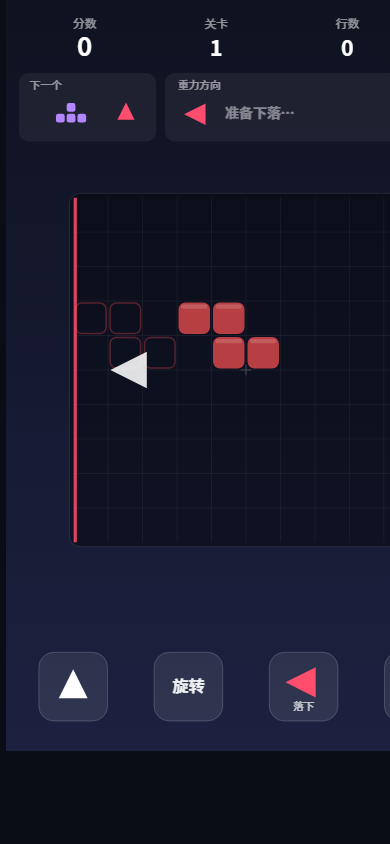
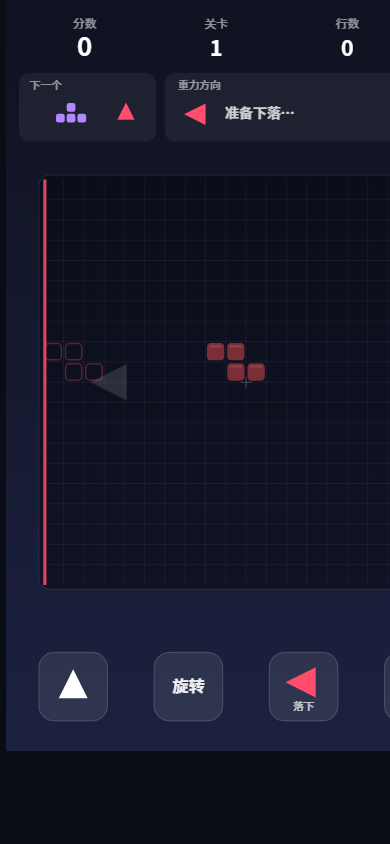
feat: 棋盘改为 20x20 — 单格减半、下落节奏/滑动手势/单测/演示脚本同步适配

Changed region(s): [[0.0923, 0.2156, 0.4, 0.7085], [0.4308, 0.3389, 0.7385, 0.4621], [0.5846, 0.1232, 0.7385, 0.154]]

diff --git a/web-preview/demo.js b/web-preview/demo.js
@@ -7,9 +7,9 @@
  *   300  开局            → 截图 1-menu(250) / 2-hint(950)
  *   1500 第 1 块硬降；1550 将第 2 块重力设为向下
  *   4200 第 2 块下落中    → 截图 3-fall(4200)
- *   4900 布置消行（第 9 行留 8、9 列 + O 块）
+ *   4900 布置消行（底行留最后两列 + O 块）
  *   5000 硬降 → 消行      → 截图 4-clear(5150)
- *   5500 布置升级（lines=7 + 第 8 行留 8、9 列 + O 块）
+ *   5500 布置升级（lines=7 + 次底行留最后两列 + O 块）
  *   5600 硬降 → 升 2 关   → 截图 5-levelup(5750)
  *   6200 中心 4×4 堵死 → spawn 碰撞 → 游戏结束 → 截图 6-gameover(6500)
  *   6800 打开排行榜       → 截图 7-rank(7100)
@@ -41,11 +41,12 @@
   /* 消行演示 */
   at(4900, function () {
     var core = G.core, g = core.board.grid, r, c;
-    for (r = 0; r < 10; r++) { g[r][8] = null; g[r][9] = null; } // 清空 O 下落通道
+    var R = g.length, C = g[0].length;
+    for (r = 0; r < R; r++) { g[r][C - 2] = null; g[r][C - 1] = null; } // 清空 O 下落通道
     var pre = [];
-    for (c = 0; c < 8; c++) if (!g[9][c]) pre.push({ x: c, y: 9 });
+    for (c = 0; c < C - 2; c++) if (!g[R - 1][c]) pre.push({ x: c, y: R - 1 });
     if (pre.length) core.board.lock(pre, 'J');
-    core.current = { type: 'O', matrix: cloneO(), dir: 0, x: 8, y: 6 };
+    core.current = { type: 'O', matrix: cloneO(), dir: 0, x: C - 2, y: R - 6 };
     core.phase = 'fall'; core.fallTimer = 0;
   });
   at(5000, function () { G.core.hardDrop(); });
@@ -53,11 +54,12 @@
   /* 升级演示：先补到 7 行，再消 1 行触发升级 */
   at(5500, function () {
     var core = G.core, g = core.board.grid, c;
+    var R = g.length, C = g[0].length;
     core.lines = 7;
     var pre = [];
-    for (c = 0; c < 8; c++) if (!g[8][c]) pre.push({ x: c, y: 8 });
+    for (c = 0; c < C - 2; c++) if (!g[R - 2][c]) pre.push({ x: c, y: R - 2 });
     if (pre.length) core.board.lock(pre, 'J');
-    core.current = { type: 'O', matrix: cloneO(), dir: 0, x: 8, y: 5 };
+    core.current = { type: 'O', matrix: cloneO(), dir: 0, x: C - 2, y: R - 6 };
     core.phase = 'fall'; core.fallTimer = 0;
   });
   at(5600, function () { G.core.hardDrop(); });
@@ -65,7 +67,9 @@
   /* 游戏结束演示：堵死中心出生区 */
   at(6200, function () {
     var core = G.core, cells = [];
-    for (var y = 3; y <= 6; y++) for (var x = 3; x <= 6; x++) cells.push({ x: x, y: y });
+    var R = core.board.grid.length;
+    var c0 = Math.floor(R / 2) - 2; // 中心 4×4，覆盖所有出生位
+    for (var y = c0; y < c0 + 4; y++) for (var x = c0; x < c0 + 4; x++) cells.push({ x: x, y: y });
     core.board.lock(cells, 'T');
     core.current = null;
     core.spawn(); // 中心碰撞 → gameover 事件 → 主循环切换到结算面板

diff --git a/js/config.js b/js/config.js
@@ -1,6 +1,6 @@
 /**
  * 全局配置常量
- * 引力方块：10x10 方形棋盘，方块从中心生成，重力方向随机（下/左/上/右）
+ * 引力方块：20x20 方形棋盘，方块从中心生成，重力方向随机（下/左/上/右）
  */
 
 // 重力方向单位向量：0=下 1=左 2=上 3=右
@@ -32,8 +32,8 @@ const COLORS = {
 };
 
 module.exports = {
-  COLS: 10,
-  ROWS: 10,
+  COLS: 20,
+  ROWS: 20,
   TYPES: ['I', 'O', 'T', 'S', 'Z', 'J', 'L'],
   DIRS,
   PERP,
@@ -44,10 +44,10 @@ module.exports = {
   HINT_MIN: 500,     // 提示时长下限 ms
   HINT_STEP: 50,     // 每升 1 关减少 ms
 
-  // 下落速度（每格间隔）
-  FALL_BASE: 1000,   // 第 1 关每格 ms
-  FALL_MIN: 120,     // 速度上限（最快每格 120ms）
-  FALL_STEP: 80,     // 每升 1 关加快 ms
+  // 下落速度（每格间隔）— 20×20 棋盘下落距离翻倍，间隔减半以保持节奏与原 10×10 相当
+  FALL_BASE: 500,    // 第 1 关每格 ms
+  FALL_MIN: 80,      // 速度上限（最快每格 80ms）
+  FALL_STEP: 40,     // 每升 1 关加快 ms
 
   LINES_PER_LEVEL: 8,        // 每消除 8 行升 1 关
   SCORE_TABLE: [0, 100, 250, 500, 800], // 同时消除 1/2/3/4 行的基础分
@@ -59,5 +59,5 @@ module.exports = {
   ACCENT: '#ff4d6d',
   BG_TOP: '#0f1220',
   BG_BOTTOM: '#1c2140',
-  BOARD_SCALE: 0.85,         // 棋盘整体缩放（方块大小）：1=铺满可用宽度，调小则方块更小、四周留白更多
+  BOARD_SCALE: 1.0,          // 棋盘整体缩放（方块大小）：20×20 下单格已约为 10×10 时的一半；调小可进一步缩小方块
 };

diff --git a/js/main.js b/js/main.js
@@ -120,7 +120,8 @@ class Main {
     if (Math.abs(dotG) >= Math.abs(dotP)) {
       if (dotG > 30) { this.core.hardDrop(); this.vibrate(15); }
     } else {
-      const steps = Math.min(4, Math.max(1, Math.round(Math.abs(dotP) / 28)));
+      // 按格子实际尺寸换算：拖动约一个格宽 = 移动一格（适配任意棋盘尺寸）
+      const steps = Math.min(8, Math.max(1, Math.round(Math.abs(dotP) / B.cell)));
       const sign = dotP > 0 ? 1 : -1;
       let moved = false;
       for (let i = 0; i < steps; i++) { if (this.core.movePerp(sign)) moved = true; else break; }

diff --git a/README.md b/README.md
@@ -4,11 +4,11 @@
 
 ## 玩法特色
 
-- **中心生成**：方块从 10×10 棋盘正中心生成，而非传统的顶部
+- **中心生成**：方块从 20×20 棋盘正中心生成，而非传统的顶部
 - **随机重力**：每个方块的下落方向随机（下 / 左 / 上 / 右），重力侧的棋盘边缘会高亮显示
 - **下落前提示**：方块正式下落前会停留片刻并闪烁，同时用大号箭头预告「方块类型 + 下落方向」；HUD 中还有「下一个」面板提前展示下一块的类型与方向
 - **双向消行**：填满任意整行 **或** 整列即可消除（适配四向重力）
-- **关卡系统**：每消除 8 行升 1 关，下落速度逐关加快（1000ms/格 → 最快 120ms/格），下落前提示时间也随关卡缩短
+- **关卡系统**：每消除 8 行升 1 关，下落速度逐关加快（500ms/格 → 最快 80ms/格），下落前提示时间也随关卡缩短
 - **玩家排行**：
   - 本机 TOP10（始终可用，本地持久化）
   - 好友排行榜（开放数据域 + 云端托管数据，需真机登录抖音）
@@ -112,14 +112,14 @@ node web-preview/serve.cjs   # 先保持服务运行
 
 | 配置 | 默认值 | 说明 |
 |---|---|---|
-| `COLS`/`ROWS` | 10×10 | 棋盘尺寸 |
-| `FALL_BASE` | 1000ms | 第 1 关每格下落间隔 |
-| `FALL_STEP` | 80ms | 每关加快量 |
-| `FALL_MIN` | 120ms | 最快速度下限 |
+| `COLS`/`ROWS` | 20×20 | 棋盘尺寸 |
+| `FALL_BASE` | 500ms | 第 1 关每格下落间隔 |
+| `FALL_STEP` | 40ms | 每关加快量 |
+| `FALL_MIN` | 80ms | 最快速度下限 |
 | `HINT_BASE` | 1000ms | 第 1 关下落前提示时长 |
 | `LINES_PER_LEVEL` | 8 | 每关需消除行数 |
 | `SCORE_TABLE` | [0,100,250,500,800] | 同时消 1~4 行的基础分（×关卡数） |
-| `BOARD_SCALE` | 0.85 | 棋盘（方块）整体缩放：调小方块更小，1 为铺满可用宽度 |
+| `BOARD_SCALE` | 1.0 | 棋盘（方块）整体缩放：调小方块更小，1 为铺满可用宽度 |
 
 ## 技术说明
 
